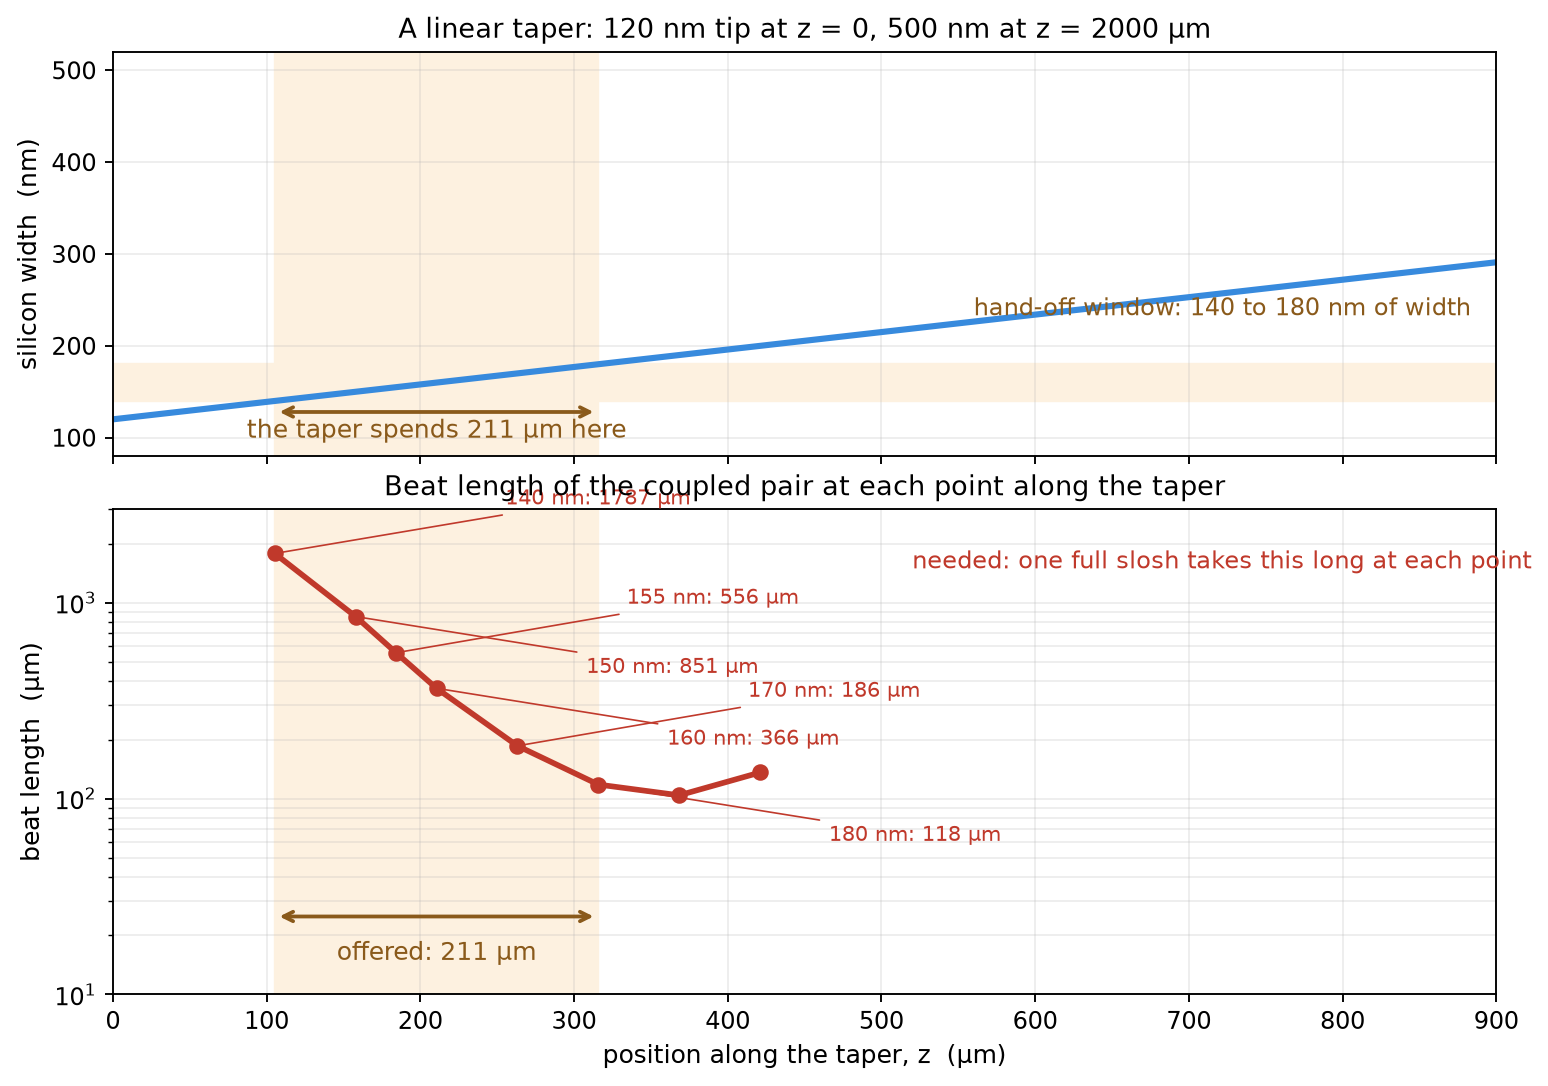
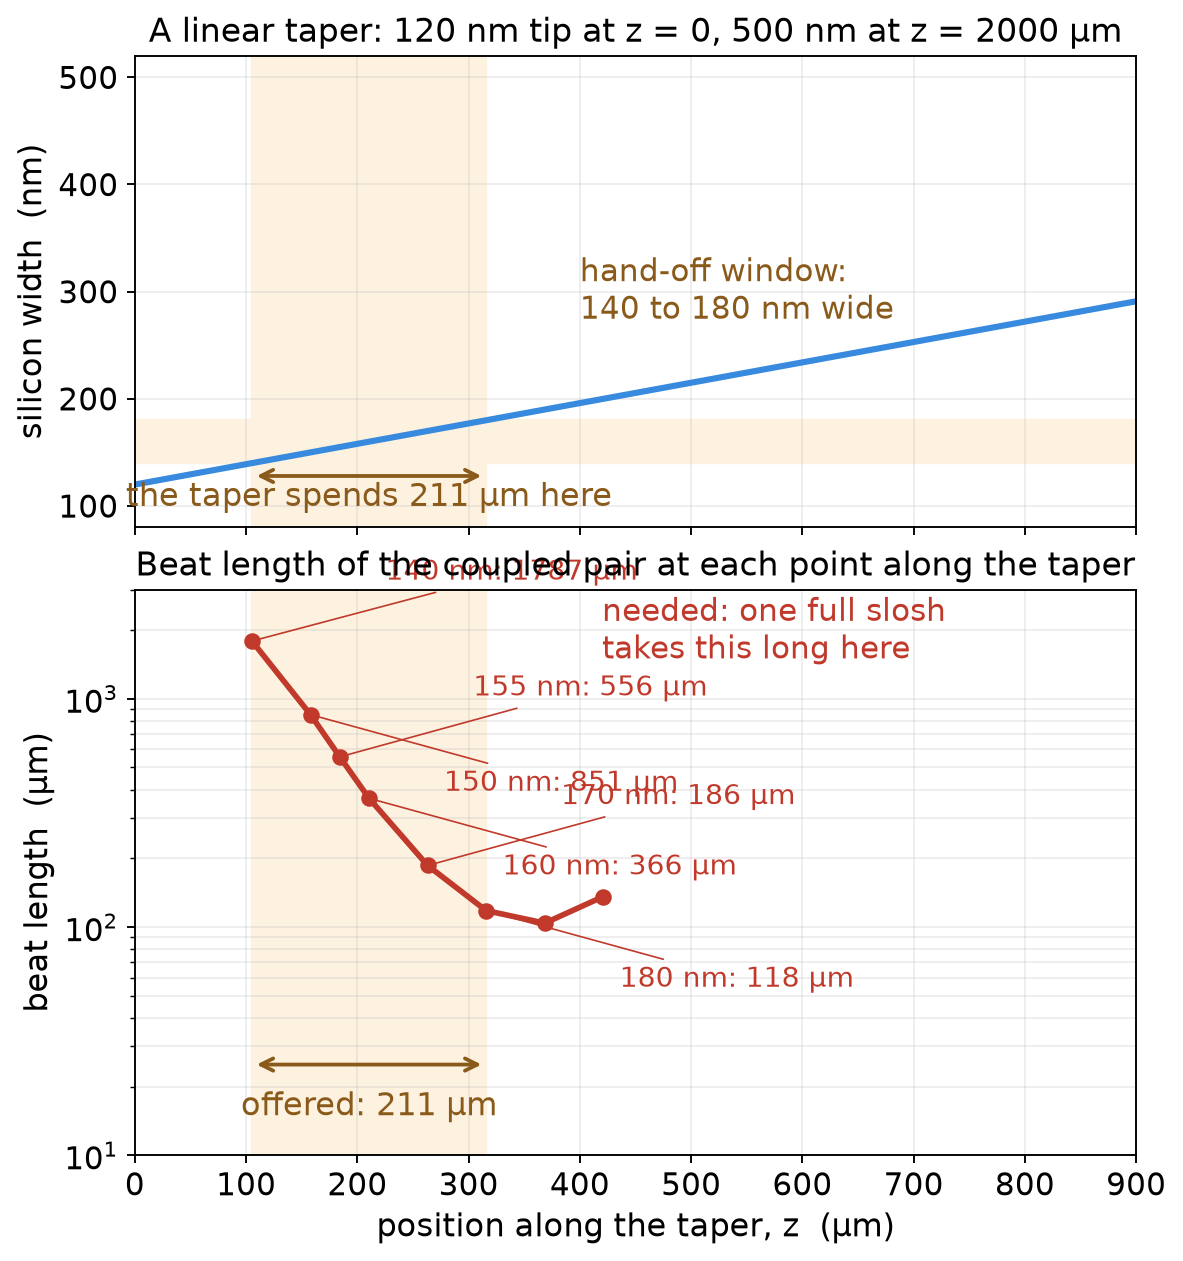
Taper seen from above; regenerate the taper-window figure at pane size with readable text

Changed region(s): [[0.0, 0.0, 1.0, 1.0], [0.0, 0.547, 0.1217, 0.8204], [0.0304, 0.8812, 0.1217, 0.942]]

diff --git a/chain/figures.html b/chain/figures.html
@@ -49,6 +49,7 @@ anchor: <code>figures.html#name</code> jumps straight to it.</div>
 <a href="#bend-in-context">bend-in-context</a><br>
 <a href="#bend-loss-curve">bend-loss-curve</a><br>
 <a href="#handoff">handoff</a><br>
+<a href="#taper-plan">taper-plan</a><br>
 <a href="#anticrossing">anticrossing</a><br>
 <a href="#beat-length">beat-length</a><br>
 <a href="#taper-window">taper-window</a><br>
@@ -76,6 +77,7 @@ anchor: <code>figures.html#name</code> jumps straight to it.</div>
 
 <h2>Stage 3: glass to silicon</h2>
 <figure id="handoff"><span class="fid">handoff</span><img src="img/handoff.svg" alt=""><figcaption>The scene: the ion-exchanged guide in the glass, the adhesive bondline, and the silicon taper of the face-down die. The mode starts in the glass and climbs into the silicon as the taper widens.</figcaption></figure>
+<figure id="taper-plan"><span class="fid">taper-plan</span><img src="img/taper-plan.svg" alt=""><figcaption>The taper from above: 120 nm at the tip, 500 nm at the far end, 2 mm long, with the hand-off window shaded. The length is compressed about 700 times; at true scale it is 4000 times longer than it is wide.</figcaption></figure>
 <figure id="anticrossing"><span class="fid">anticrossing</span><img src="img/anticrossing.png" alt=""><figcaption>The two guides alone would cross at 156 nm. Solved together they refuse to, and the light rides the upper curve from a glass mode into a silicon mode. The gap sets the beat length, and the beat length sets how slowly the taper must change.</figcaption></figure>
 
 <figure id="beat-length"><span class="fid">beat-length</span><img src="img/beat-length.png" alt=""><figcaption>What a beat length is. Two phase-matched guides held at fixed geometry: light launched in the glass is entirely in the silicon after half a beat length and back in the glass after one. The beat length runs along the light; the adhesive thickness runs across it and is one of the things that sets the beat length, not something compared with it.</figcaption></figure>

diff --git a/chain/taper_window.py b/chain/taper_window.py
@@ -14,6 +14,8 @@ import pathlib
 import matplotlib.pyplot as plt
 import numpy as np
 
+plt.rcParams.update({"font.size": 13})
+
 TIP, END, LEN = 120.0, 500.0, 2000.0
 slope = (END - TIP) / LEN                       # nm per um
 w = lambda z: TIP + slope * z
@@ -26,34 +28,34 @@ beat = np.array([[200, 136], [190, 104], [180, 118], [170, 186], [160, 366],
                  [155, 556], [150, 851], [140, 1787]])
 zb = zw(beat[:, 0])
 
-fig, (a, b) = plt.subplots(2, 1, figsize=(10.5, 7.2), sharex=True,
+fig, (a, b) = plt.subplots(2, 1, figsize=(7.6, 8.4), sharex=True,
                            gridspec_kw=dict(hspace=0.12, height_ratios=[1, 1.2]))
 z = np.linspace(0, LEN, 400)
 a.plot(z, w(z), lw=2.6, color="#378ADD")
 a.axhspan(W0, W1, color="#fdf1e0")
 a.axvspan(z0, z1, color="#fdf1e0")
 a.annotate("", xy=(z1, 128), xytext=(z0, 128), arrowprops=dict(arrowstyle="<->", color="#8a5a1b", lw=1.6))
-a.text((z0 + z1) / 2, 100, f"the taper spends {z1 - z0:.0f} µm here", ha="center", fontsize=10.5, color="#8a5a1b")
-a.text(560, 240, "hand-off window: 140 to 180 nm of width", fontsize=10, color="#8a5a1b", va="center")
-a.set_ylabel("silicon width  (nm)", fontsize=10.5)
+a.text((z0 + z1) / 2, 100, f"the taper spends {z1 - z0:.0f} µm here", ha="center", fontsize=13.5, color="#8a5a1b")
+a.text(400, 300, "hand-off window:\n140 to 180 nm wide", fontsize=13, color="#8a5a1b", va="center")
+a.set_ylabel("silicon width  (nm)", fontsize=13.5)
 a.set_ylim(80, 520); a.grid(alpha=.22)
-a.set_title(f"A linear taper: {TIP:.0f} nm tip at z = 0, {END:.0f} nm at z = {LEN:.0f} µm", fontsize=11.5)
+a.set_title(f"A linear taper: {TIP:.0f} nm tip at z = 0, {END:.0f} nm at z = {LEN:.0f} µm", fontsize=14)
 
 b.semilogy(zb, beat[:, 1], "o-", lw=2.4, ms=6, color="#c0392b")
 b.axvspan(z0, z1, color="#fdf1e0")
 for k, (zz, (wn, L)) in enumerate(zip(zb, beat)):
     if 140 <= wn <= 180:
-        b.annotate(f"{wn:.0f} nm: {L:.0f} µm", xy=(zz, L), xytext=(zz + 150, L * (1.9 if k % 2 else 0.55)),
-                   fontsize=9, color="#c0392b", va="center",
+        b.annotate(f"{wn:.0f} nm: {L:.0f} µm", xy=(zz, L), xytext=(zz + 120, L * (2.0 if k % 2 else 0.5)),
+                   fontsize=12, color="#c0392b", va="center",
                    arrowprops=dict(arrowstyle="-", color="#c0392b", lw=0.7))
 b.annotate("", xy=(z1, 25), xytext=(z0, 25), arrowprops=dict(arrowstyle="<->", color="#8a5a1b", lw=1.6))
-b.text((z0 + z1) / 2, 15, f"offered: {z1 - z0:.0f} µm", ha="center", fontsize=10.5, color="#8a5a1b")
-b.text(520, 1500, "needed: one full slosh takes this long at each point", fontsize=10, color="#c0392b")
+b.text((z0 + z1) / 2, 15, f"offered: {z1 - z0:.0f} µm", ha="center", fontsize=13.5, color="#8a5a1b")
+b.text(420, 1500, "needed: one full slosh\ntakes this long here", fontsize=13, color="#c0392b")
 b.set_ylim(10, 3000); b.set_xlim(0, 900)
-b.set_xlabel("position along the taper, z  (µm)", fontsize=10.5)
-b.set_ylabel("beat length  (µm)", fontsize=10.5)
+b.set_xlabel("position along the taper, z  (µm)", fontsize=13.5)
+b.set_ylabel("beat length  (µm)", fontsize=13.5)
 b.grid(alpha=.22, which="both")
-b.set_title("Beat length of the coupled pair at each point along the taper", fontsize=11.5)
+b.set_title("Beat length of the coupled pair at each point along the taper", fontsize=14)
 
 out = pathlib.Path(__file__).parent / "img" / "taper-window.png"
 fig.savefig(out, dpi=170, bbox_inches="tight", facecolor="white")
